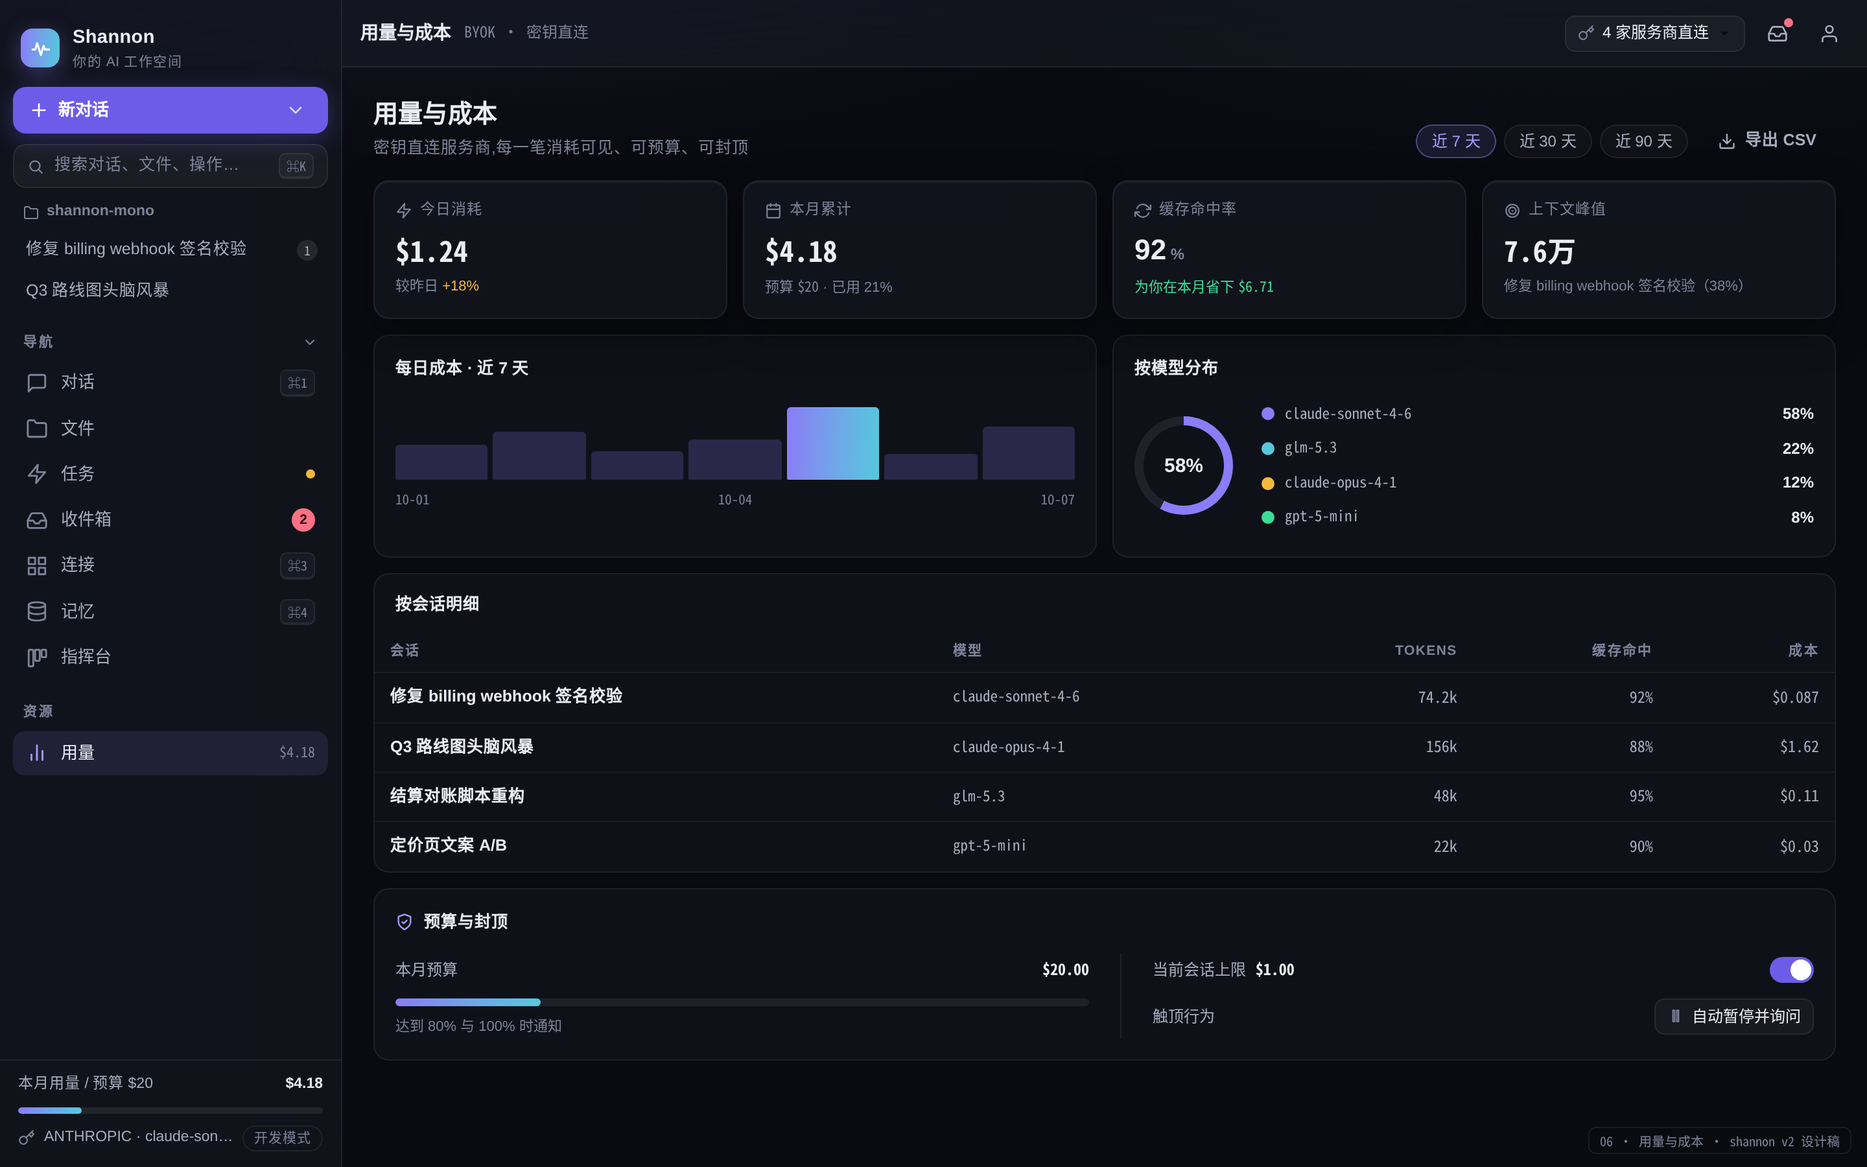
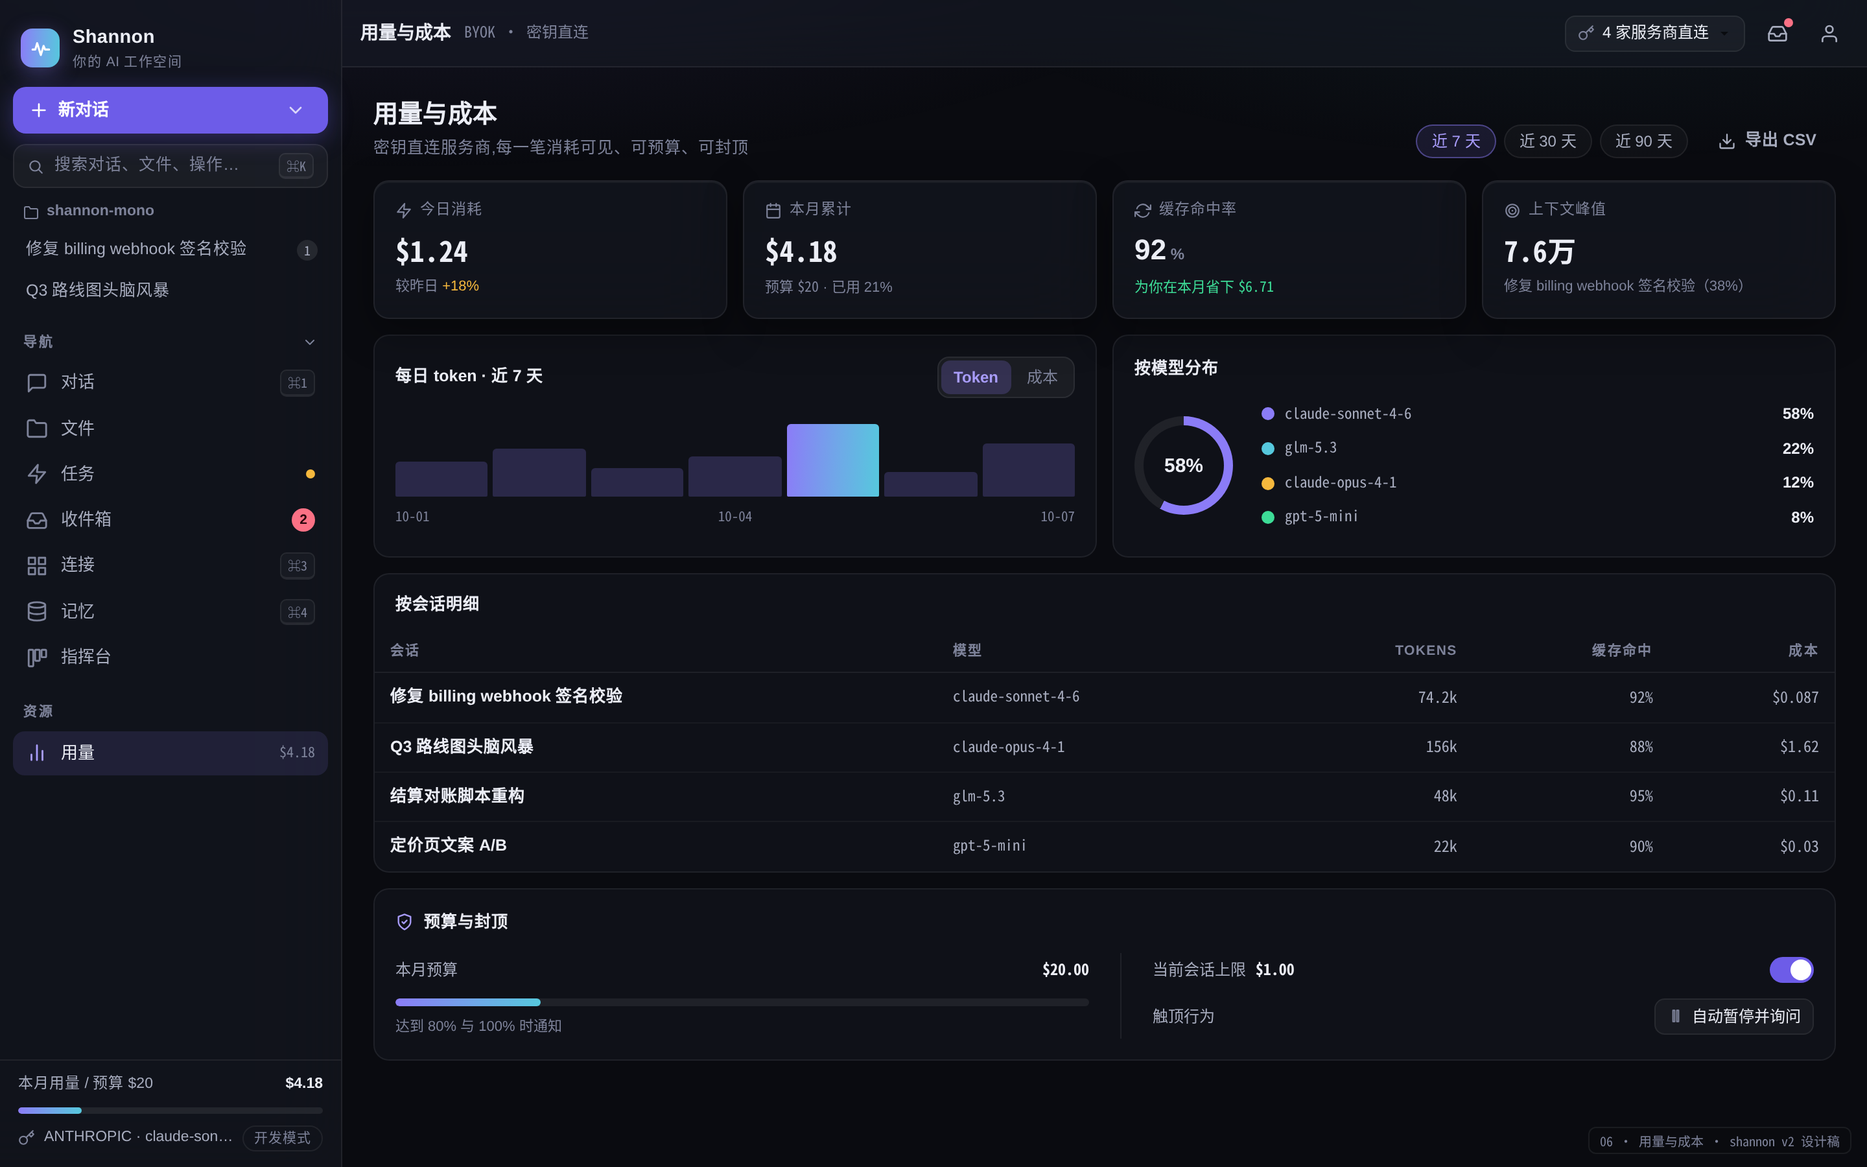
docs(design): 设计稿顺笔批——T2 六项(稿随落地)
07 卡足八处「注入扫描 ✓ 已签名 ✓」→「安装时扫描 · 发布者自声明」(=shipped SecurityBadge
解剖+#413 后的真实语义,横幅换 shipped securityBanner);白皮书按钮注记 design-only
(应用侧有意缺失,Extensions.tsx:192 原注);06 首屏改「每日 token · 近 7 天」+ Token/成本
seg(实现默认口径即 Token,成本为切换第二口径);02 侧栏「开发模式」旧 pill 移除
(应用侧栏无模式指示物,词汇非 v2);F-9 判定无剩余页符合(同族行为仅 /chat 存在),
回改 README §3-4 C2 规格句至 02c D3 口径;README §8 批次记录收口 R3 §4 三项+E.3 观察。
截图 02/06/07 重出(1440×900 @2x)。
新登记(README §8,未扩批): 「开发模式」pill 同族 18 页侧栏;07 GitHub「已连接」chip 与
F-11 矛盾;12-settings-security 防线卡仍画开关(与 S1 裁决 B/E.0 实态矛盾,需设计侧重绘)。

Changed region(s): [[0.1875, 0.3111, 0.5938, 0.4356], [0.2188, 0.3111, 0.2812, 0.3422]]

diff --git a/docs/design/ui-redesign-2026-10/pages/07-connectors.html b/docs/design/ui-redesign-2026-10/pages/07-connectors.html
@@ -18,6 +18,10 @@
   .ico32.vio { background: var(--vio-dim); color: var(--vio-2); }
   .ico32.info { background: var(--info-dim); color: var(--info); }
   .ico32.ok { background: var(--ok-dim); color: var(--ok); }
+  /* 卡足诚实徽章(2026-10-15 R3 §4 措辞诚实化):图标 ok 色、正文 t2 —— 与实现
+     Featured.tsx SecurityBadge fallback 同构(icon text-success + 文案 text-on-surface-variant)。 */
+  .catcard .secured { color: var(--t2); }
+  .catcard .secured .ic { color: var(--ok); }
 </style>
 </head>
 <body>
@@ -177,6 +181,12 @@
       </div>
 
       <!-- 目录 grid:3 列 × 3 行 + 安全横幅 -->
+      <!-- 卡足安全徽章 —— 2026-10-15 R3 §4「措辞诚实化」顺笔:旧「注入扫描 ✓ 已签名 ✓」双勾暗示运行时
+           防护,双重失真 —— ① 扫描是安装期对目录与 README 的建议性静态扫描,不扫运行时出站内容
+           (securityBadgeScanHelp);② 「已签名」是清单自声明发布者标识,非密码学校验(securityBadgePublisherHelp)。
+           对齐实现 Featured.tsx SecurityBadge fallback 文案 = extensions.featured.securityBadge
+           「安装时扫描 · 发布者自声明」;设置页「出站防线」卡的实时读态(模式 + Findings)由 PR #413 落地
+           (r4 §E.0),属 12-settings-security 的卡,与本页卡足无关。 -->
       <div class="catgrid" style="padding-bottom:12px">
 
         <!-- 1 GitHub(已授权态示范:已连接 → 管理,见 D2 回改注) -->
@@ -189,7 +199,7 @@
           </div>
           <p class="desc">issues、PR、Actions 的工作流自动化</p>
           <div class="foot">
-            <span class="secured"><svg class="ic"><use href="#i-shield"/></svg>注入扫描 ✓ 已签名 ✓</span>
+            <span class="secured"><svg class="ic"><use href="#i-shield"/></svg>安装时扫描 · 发布者自声明</span>
             <span class="spacer"></span>
             <button class="btn ghost sm">管理</button>
           </div>
@@ -204,15 +214,16 @@
           </div>
           <p class="desc">页面与数据库读写,同步会议记录</p>
           <div class="foot">
-            <span class="secured"><svg class="ic"><use href="#i-shield"/></svg>注入扫描 ✓ 已签名 ✓</span>
+            <span class="secured"><svg class="ic"><use href="#i-shield"/></svg>安装时扫描 · 发布者自声明</span>
             <span class="spacer"></span>
             <button class="btn sm soft"><svg class="ic"><use href="#i-plus"/></svg>添加</button>
           </div>
         </div>
 
-        <!-- 3 Slack —— 按 2026-10-14 裁决回改(D8):市场卡不再画「需认证/去认证」——市场卡无实时认证状态
-             (实现 Featured.tsx F-11 诚实契约:未安装 OAuth 厂商只画「添加/去授权」,认证动作落在已安装管理行,
-             见页尾「已安装 · 管理行」注记)。 -->
+        <!-- 3 Slack —— 按 2026-10-14 裁决回改(D8)+ 2026-10-15 R3 §4「去授权」文案顺笔:市场卡不画认证状态
+             (实现 Featured.tsx F-11 诚实契约:后端无 connected/needs-auth API,卡面从不声称 已连接/去认证;
+             未安装 OAuth 厂商只画「添加」—— 安装即授权,浏览器 loopback 一键完成),认证动作(重新认证 /
+             去认证)落在已安装管理行,见页尾「已安装 · 管理行」注记。 -->
         <div class="card pad catcard">
           <div class="top">
             <div class="ico32 ok"><svg class="ic"><use href="#i-chat"/></svg></div>
@@ -222,9 +233,9 @@
           </div>
           <p class="desc">频道消息摘要与定时播报</p>
           <div class="foot">
-            <span class="secured"><svg class="ic"><use href="#i-shield"/></svg>注入扫描 ✓ 已签名 ✓</span>
+            <span class="secured"><svg class="ic"><use href="#i-shield"/></svg>安装时扫描 · 发布者自声明</span>
             <span class="spacer"></span>
-            <button class="btn soft sm"><svg class="ic"><use href="#i-key"/></svg>去授权</button>
+            <button class="btn soft sm"><svg class="ic"><use href="#i-plus"/></svg>添加</button>
           </div>
         </div>
 
@@ -237,7 +248,7 @@
           </div>
           <p class="desc">只读查询,自动 <span class="mono">LIMIT</span> 保护</p>
           <div class="foot">
-            <span class="secured"><svg class="ic"><use href="#i-shield"/></svg>注入扫描 ✓ 已签名 ✓</span>
+            <span class="secured"><svg class="ic"><use href="#i-shield"/></svg>安装时扫描 · 发布者自声明</span>
             <span class="spacer"></span>
             <button class="btn sm soft"><svg class="ic"><use href="#i-plus"/></svg>添加</button>
           </div>
@@ -253,7 +264,7 @@
           </div>
           <p class="desc">按团队规范审查 PR,输出行级评论</p>
           <div class="foot">
-            <span class="secured"><svg class="ic"><use href="#i-shield"/></svg>注入扫描 ✓ 已签名 ✓</span>
+            <span class="secured"><svg class="ic"><use href="#i-shield"/></svg>安装时扫描 · 发布者自声明</span>
             <span class="spacer"></span>
             <button class="btn ghost sm">详情</button>
           </div>
@@ -261,8 +272,9 @@
 
         <!-- 6 Claude 远程连接 —— 按 2026-10-14 裁决回改(D2):撤销「桌面端即将支持 · 请先使用 CLI」琥珀徽章
              (实现已支持 OAuth loopback:Featured.tsx installMcpOAuthLoopback 一键授权,P KCE 全程本机完成)。
-             改画真实连接状态形态:未连接 → 主操作「去授权」(授权即安装,loopback 回调后变为「已授权 · 管理」)。
-             市场卡不画实时认证状态开关——认证动作的撤销(去认证)落在已安装管理行,见页尾「已安装 · 管理行」注记。 -->
+             主操作对齐实现词汇(2026-10-15 R3 §4「去授权」文案顺笔):未安装 → 「添加」(安装即授权,
+             loopback 回调后已安装 → 「管理」)。市场卡不画实时认证状态开关——认证动作的撤销(去认证)
+             落在已安装管理行,见页尾「已安装 · 管理行」注记。 -->
         <div class="card pad catcard">
           <div class="top">
             <div class="ico32 ok"><svg class="ic"><use href="#i-link"/></svg></div>
@@ -272,10 +284,10 @@
           </div>
           <p class="desc">云端托管的远程 MCP 服务,一键跳浏览器授权(loopback 本机回调)</p>
           <div class="foot">
-            <span class="secured"><svg class="ic"><use href="#i-shield"/></svg>注入扫描 ✓ 已签名 ✓</span>
+            <span class="secured"><svg class="ic"><use href="#i-shield"/></svg>安装时扫描 · 发布者自声明</span>
             <span class="spacer"></span>
             <span class="st mute">未连接</span>
-            <button class="btn sm soft"><svg class="ic"><use href="#i-key"/></svg>去授权</button>
+            <button class="btn sm soft"><svg class="ic"><use href="#i-plus"/></svg>添加</button>
           </div>
         </div>
 
@@ -303,7 +315,7 @@
           </div>
           <p class="desc">浏览器自动化与截图自检</p>
           <div class="foot">
-            <span class="secured"><svg class="ic"><use href="#i-shield"/></svg>注入扫描 ✓ 已签名 ✓</span>
+            <span class="secured"><svg class="ic"><use href="#i-shield"/></svg>安装时扫描 · 发布者自声明</span>
             <span class="spacer"></span>
             <button class="btn sm soft"><svg class="ic"><use href="#i-plus"/></svg>安装</button>
           </div>
@@ -318,16 +330,22 @@
           </div>
           <p class="desc">异常聚合,失败自动带上下文回会话</p>
           <div class="foot">
-            <span class="secured"><svg class="ic"><use href="#i-shield"/></svg>注入扫描 ✓ 已签名 ✓</span>
+            <span class="secured"><svg class="ic"><use href="#i-shield"/></svg>安装时扫描 · 发布者自声明</span>
             <span class="spacer"></span>
             <button class="btn sm soft"><svg class="ic"><use href="#i-plus"/></svg>添加</button>
           </div>
         </div>
 
-        <!-- 底部安全横幅(跨 3 列) -->
+        <!-- 底部安全横幅(跨 3 列)—— 文案对齐实现 extensions.hub.securityBanner(批次 2 诚实化已把
+             「签名校验」从横幅撤下:签名核对属逐包安装期自声明语义,见 r4 §E.0 / 12-settings-security
+             「安装时校验 · 自声明语义」);凭据句对齐 Welcome 页脚「密钥永不出机」叙事。
+             「安全白皮书」按钮注记(2026-10-15 R3 §4 顺笔):设计先行元素,实现刻意不做 —— 无白皮书可指
+             (desktop/ui/src/pages/Extensions.tsx M1 注记:"The design's 安全白皮书 button is
+             intentionally absent — there is no whitepaper to point at")。稿内保留按钮作安全叙事的
+             视觉锚,实现侧横幅无此入口;日后若产出白皮书再接线,届时稿随落地同步。 -->
         <div class="card pad" style="grid-column:1/-1;display:flex;align-items:center;gap:12px;padding:14px 16px">
           <svg class="ic" style="width:18px;height:18px;color:var(--ok)"><use href="#i-shield"/></svg>
-          <div style="font-size:12.5px;color:var(--t2)">目录内所有条目安装前执行提示注入扫描与签名校验;凭据只写入本机系统 keyring</div>
+          <div style="font-size:12.5px;color:var(--t2)">目录内所有条目安装前执行本机提示注入扫描；凭据只写入本机，永不出机。</div>
           <span class="spacer"></span>
           <button class="btn ghost sm">安全白皮书</button>
         </div>

diff --git a/docs/design/ui-redesign-2026-10/pages/06-usage.html b/docs/design/ui-redesign-2026-10/pages/06-usage.html
@@ -179,8 +179,16 @@
 
         <!-- 图表行 -->
         <div class="grid2">
+          <!-- 每日图表口径(2026-10-15 R3 §4「每日成本」首屏口径顺笔):首屏口径 = Token ——
+               标题「每日 token」(usage.chart.byDay.title),柱状堆叠输入(底)/输出(顶)(byDay.subtitle);
+               「成本」是卡头切换的第二口径(by_day cost_usd 单系列,切换后标题「每日成本」= byDay.costTitle)。
+               卡头 Token/成本 切换 = usage.chart.mode.tokens / mode.cost(Usage.tsx:335 默认 tokens)。
+               旧「每日成本」单口径标题撤销 —— 稿随落地。 -->
           <div class="card pad">
-            <div style="font-size:12.5px;font-weight:650;margin-bottom:12px">每日成本 · 近 7 天</div>
+            <div class="row" style="justify-content:space-between;margin-bottom:12px">
+              <div style="font-size:12.5px;font-weight:650">每日 token · 近 7 天</div>
+              <div class="seg"><button class="on">Token</button><button>成本</button></div>
+            </div>
             <div class="bars">
               <i style="height:42%"></i><i style="height:58%"></i><i style="height:35%"></i>
               <i style="height:49%"></i><i class="hi" style="height:88%"></i><i style="height:31%"></i><i style="height:64%"></i>

diff --git a/docs/design/ui-redesign-2026-10/pages/02-chat.html b/docs/design/ui-redesign-2026-10/pages/02-chat.html
@@ -119,9 +119,11 @@
         <div class="meter-row"><span>本月用量 / 预算 $20</span><b>$4.18</b></div>
         <div class="meter mt8"><i style="width:21%"></i></div>
       </div>
+      <!-- 模型行 —— 2026-10-15 r4 §E.3 观察顺笔:移除「开发模式」mode-pill —— 应用侧栏模型行无此
+           指示物(Sidebar.tsx 模型徽章 = 模型名 + 右侧大写 provider,无模式 pill),词汇亦非权限命名 v2;
+           上方用量 meter(SidebarUsageMeter)与模型徽章均真实在位,保留。 -->
       <div class="model-row">
         <svg class="ic"><use href="#i-key"/></svg><span class="lbl">ANTHROPIC · claude-sonnet-4-6</span>
-        <span class="mode-pill">开发模式</span>
       </div>
     </div>
   </aside>

diff --git a/docs/design/ui-redesign-2026-10/README.md b/docs/design/ui-redesign-2026-10/README.md
@@ -126,7 +126,7 @@
 1. **术语一处一词**(侧栏=页头=面包屑=键位提示):任务/收件箱/连接/指挥台/多方案对比;状态枚举永不直出数据库值。
 2. **侧栏状态徽章体系**:收件箱=待处理数(珊瑚);任务=失败/阻塞(琥珀点);用量=月预算消耗(≥80% 琥珀)。
 3. **导航分区规则(裁决 F-6 = A′)**:侧栏导航区 7 项 —— 对话/文件/任务/收件箱/连接/记忆 + **指挥台(开发模式第 7 项,全站常驻)**;简单模式隐藏指挥台,任务页顶部提供入口卡。指挥台内部的任务容器以副标题「任务在这里并行执行」消歧(裁决 F-15 = 保留「任务」一词)。
-4. **响应式降级(裁决 F-9)**:<1360px 右停靠自动折叠;<1200px 执行模式四档折叠为「当前档 chip」。三要素恒可达,只变形态。
+4. **响应式降级(裁决 F-9;02c D3 二次修正后口径,R2 §7-C2 同句回改)**:<1360px 右停靠自动折叠(图标呼出);composer 控件**各宽度同一形态**——分段控件与 1200px 断点折叠已随 02c D3 移除,<1200px 仅 effort gauge 四点收缩为 icon+档位词。三要素恒可达,只变形态。
 5. **诚实化模式**:不支持/未启用的能力用琥珀虚线徽章明说,禁止「看起来可用」的死入口(R2-P0 家族防复发)。
 6. **性能硬约束**:同屏 backdrop-filter ≤ 4;**弹层打开时右停靠降级为实体色**(`.dock.solid`);玻璃层 `contain: paint`;`@supports not (backdrop-filter)` 降级 95% 实体色;12 套主题只换表面色,材质公式不动。
 7. **可访问性**:文字三阶过 AA(t3 #7E839A ≈4.6:1,t3 仅用于 ≥12px);`:focus-visible` 品牌紫焦点环;reduced-motion 降级保留。
@@ -200,3 +200,20 @@
 **刻意不改**(登记不回改):03 主区整宽评审形态与「已丢失卡整卡虚线」稿内已画(app 侧仍挂账 R3 §4,见 R4 §RD);11 提取徽章按已落地形态只画在预览卡(格行不带徽章);05 stat 大卡 / 06 KPI 横纵解剖 / 10 瀑布结构 / 12-models 供应商卡等 r4 W4 已登记的呈现层差异维持设计稿原样;07 卡足安全话术措辞、安全白皮书按钮注记、06「每日成本」首屏口径三项 R3 顺笔项不在本批批准清单,留待下批。
 
 **截图**:02-chat / 03-chat-review / 02c-chat-composer-tidy / 06-usage / 11-files / 12-settings-appearance / 13-companion 已用 `assets/shot.mjs`(1440×900 @2x,playwright 取自 desktop/ui)重新出图;其中 02c 的改动(S3 弹框)位于首屏折叠线以下,视口截图像素不变,文件字节一致故 git 无 diff。
+
+---
+
+## 8. 2026-10-15 收尾顺笔批(R3 §4 设计稿侧三项 + r4 §E.3 观察)
+
+> 依据 [R3 §4「设计稿侧(下次重绘顺笔)」清单](../../reviews/2026-10-15-design-parity-r3.md)与 [r4 §RD.2 留待下批](../../reviews/2026-10-15-visual-convergence-r4.md)的挂账项;出站防线实时读态已由 PR #413 落地(r4 §E.0),本批把设计稿对齐已落地的诚实语义。原则不变:**实现是事实标准,设计稿向实现对齐**。
+
+1. **07 · 卡足措辞诚实化**:8 张目录卡足「注入扫描 ✓ 已签名 ✓」→「安装时扫描 · 发布者自声明」(= `extensions.featured.securityBadge`,`Featured.tsx` SecurityBadge:图标 ok 色 + 正文 t2)——扫描是安装期对目录/README 的建议性静态扫描(securityBadgeScanHelp)、「已签名」是清单自声明非密码学校验(securityBadgePublisherHelp),静态双勾暗示运行时防护,双重失真。底部安全横幅文案同步对齐 `extensions.hub.securityBanner`「目录内所有条目安装前执行本机提示注入扫描;凭据只写入本机,永不出机。」(批次 2 诚实化已把「签名校验」从横幅撤下;凭据句对齐「密钥永不出机」叙事)。
+2. **07 · 「去授权」文案**:Slack / Claude 远程连接两张市场卡主操作「去授权」→「添加」(= `Featured.tsx` F-11 诚实契约:后端无 connected/needs-auth API,市场卡不画认证态;未安装 OAuth 厂商只画「添加」——安装即授权,已装 → 「管理」);D2/D8 页内注记同步改写(F-11 表述由「添加/去授权」订正为「只画添加」)。去认证/重新认证仍只在「已安装 · 管理行」。
+3. **07 · 安全白皮书按钮注记**:横幅按钮为设计先行元素,实现刻意不做——无白皮书可指(`Extensions.tsx` M1 注记 "intentionally absent — there is no whitepaper to point at");稿内保留按钮作安全叙事视觉锚,页内注记在案,白皮书产出后再接线(届时稿随落地同步)。
+4. **06 · 「每日成本」首屏口径**:图表卡对齐已落地首屏形态——标题「每日 token · 近 7 天」+ 卡头 Token/成本切换段控(`usage.chart.mode.tokens/cost`;`Usage.tsx:335` 默认 tokens,柱状堆叠输入/输出);成本为切换口径(`by_day cost_usd` 单系列,切换后标题「每日成本」= `usage.chart.byDay.costTitle`);旧「每日成本」单口径标题撤销。
+5. **02 · 侧栏「开发模式」mode-pill 移除**(r4 §E.3 观察顺笔):应用侧栏模型行无模式指示物(`Sidebar.tsx` 模型徽章 = 模型名 + 大写 provider),词汇亦非权限命名 v2;用量 meter(`SidebarUsageMeter`)与模型徽章均真实在位,保留。
+6. **F-9 同族规格句补齐(R2 §7-C2 收尾)**:C2 点名的「README §3-4 同句」按 02c D3「各宽度同一形态」口径回改(§3-4)。页面侧逐一核实:F-9 两款行为在 app 侧仅 /chat 挂载(<1360px 右停靠折叠 = `RightDock.tsx:73` `F9_COLLAPSE_BREAKPOINT_PX`,仅 `Chat.tsx` 挂 RightDock;composer 折叠 = `ChatInput`,仅 /chat 使用)——02/03 已持规格句;01 的 hero 输入卡是独立简形提交(草稿转入 /chat),非 ChatInput;09/10 的稿内 dock 为登记的呈现差异(E.1),app 侧无 RightDock;11 已持 ≥1280 WIDE_QUERY 句。**无其余合资格页面,不画未落地行为。**
+
+**刻意不改**(登记):02 之外 18 页侧栏同款「开发模式」mode-pill(03/04/04b/05/06/07/08/09/10/11/12×7)——R3/r4 记录仅点名 02,同族清批须整批重出截图,留待下批顺笔;07 卡 1「已连接」状态章(GitHub)属 F-11 同族呈现问题但无登记记录,不顺笔;11「已丢失卡整卡虚线」为 R3 §4.1 挂账的 app 侧待办、稿内已画目标形态(RD.1-8 / §7 已登记刻意不改),核实实现仍为灰态+opacity(FilesPage `data-missing` 行 opacity-50 + 琥珀虚线徽章),设计不动。12-settings-security「出站防线」卡稿仍画模式 seg/开关——与 r4 §S1 裁决 B 及 E.0 读态实现均不符,属新发现残留,超本批授权,登记待下批(需按 E.0 四态诚实渲染重画:模式徽章 + Findings 计数 + 「安装时校验 · 自声明语义」注记,无开关)。
+
+**截图**:02-chat / 06-usage / 07-connectors 已用 `assets/shot.mjs`(1440×900 @2x)重出同名 PNG;未改动页一律不出图。
